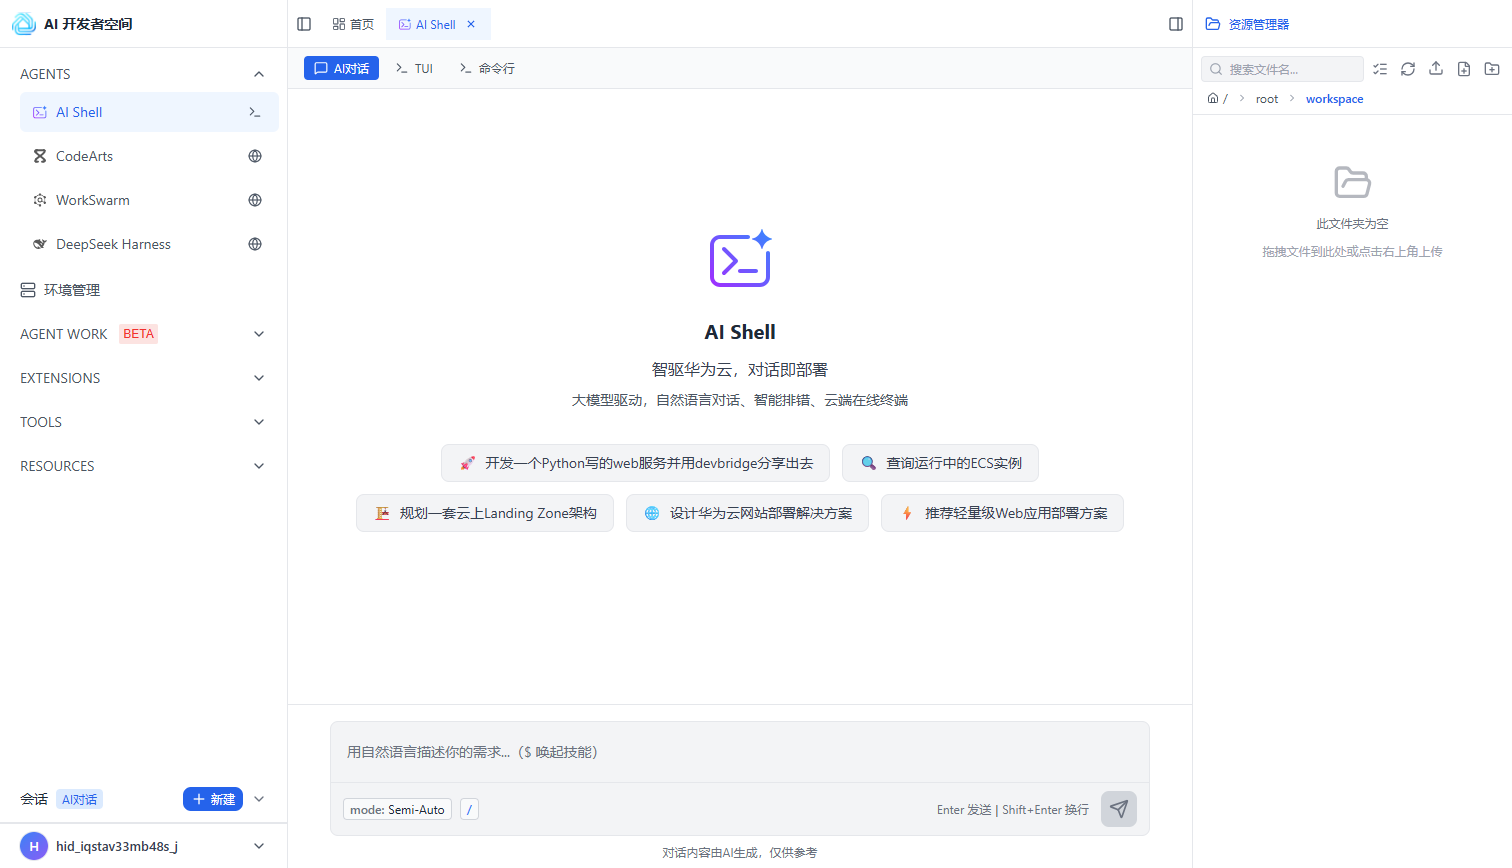
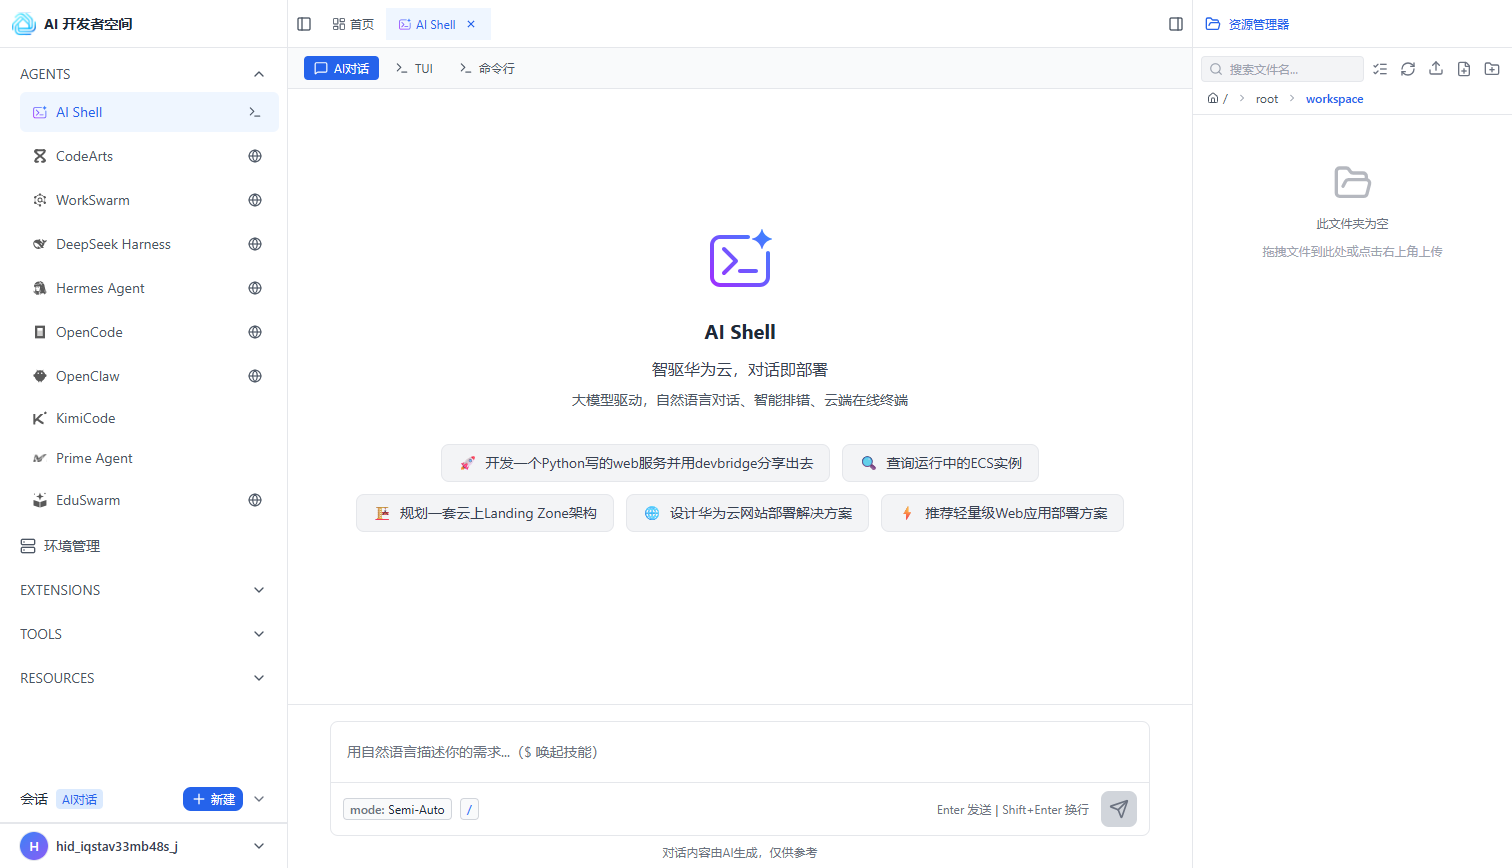
新增首页截图介绍与EduSwarm章节（AI教学智能体），AGENTS概览更新为9个智能体并移除HWCloud CLI章节，AI Shell功能与截图刷新，环境管理重截图并同步19环境明细（新增AI Shell/EduSwarm/IAC MCP Server/Agent Browser/HuaweiCloud DevKit/Next AI Draw.io，版本号与状态对齐线上）

diff --git a/AIDevspace.html b/AIDevspace.html
@@ -610,10 +610,10 @@
     <div class="toc-title">开始使用</div>
     <nav id="toc">
       <a href="#intro">简介</a>
+      <a href="#home">首页</a>
       <a href="#agents" class="toggle-parent" id="agents-toggle"><span class="label">AGENTS 概览</span><span class="arrow">▸</span></a>
       <div class="submenu collapsed" id="agents-submenu">
         <a href="#ai-shell" class="sub2">AI SHELL</a>
-        <a href="#agent-hwcloud-cli" class="sub2">HWCloud CLI</a>
         <a href="#agent-codearts" class="sub2">CodeArts</a>
         <a href="#agent-WorkSwarm" class="sub2">WorkSwarm</a>
         <a href="#agent-deepseek-harness" class="sub2">DeepSeek Harness</a>
@@ -622,6 +622,7 @@
         <a href="#agent-openclaw" class="sub2">OpenClaw</a>
         <a href="#agent-kimicode" class="sub2">KimiCode</a>
         <a href="#agent-prime" class="sub2">Prime Agent</a>
+        <a href="#agent-eduswarm" class="sub2">EduSwarm</a>
       </div>
       
       <a href="#workenv">环境管理</a>
@@ -667,7 +668,7 @@
         </thead>
         <tbody>
           <tr><td><strong>AI SHELL</strong></td><td>核心入口，支持 AI 对话、TUI、命令行三种交互模式</td></tr>
-          <tr><td><strong>AGENTS</strong></td><td>9 个智能体，覆盖基础设施即代码、代码编写与分析、多 Agent 协作、DeepSeek 推理、编程辅助、个人助手、任务调度编排等场景</td></tr>
+          <tr><td><strong>AGENTS</strong></td><td>9 个智能体，覆盖代码编写与分析、多 Agent 协作、DeepSeek 推理、编程辅助、个人助手、任务调度编排、AI 教学辅助等场景</td></tr>
           <tr><td><strong>环境管理</strong></td><td>14 个作业环境，支持智能体、开发工具、数据库、基础设施四类分类，一键部署与管理</td></tr>
           <tr><td><strong>AGENT WORK</strong></td><td>智能体工作平台（Beta），包含 Agent 管理、项目、任务、小队、自动化 5 个子模块，覆盖从 Agent 定义、任务承载、多智能体协作到周期自动化的完整工作流</td></tr>
           <tr><td><strong>EXTENSIONS</strong></td><td>扩展能力，包含华为云 Skills（79 个云服务技能）和 Channels（飞书/微信/企业微信对接）</td></tr>
@@ -692,9 +693,27 @@
       </ul>
     </section>
 
+    <section id="home">
+      <h2>首页</h2>
+      <p>登录 AI 开发者空间后默认进入首页。页面左侧为全局导航（AGENTS、环境管理、EXTENSIONS、TOOLS、RESOURCES、文件管理、设置与反馈），右侧为资源管理器面板；主区域从上到下分为四个板块：</p>
+      <img class="screenshot" src="images/home.png" alt="AI 开发者空间首页" />
+      <div class="figcaption">AI 开发者空间首页总览</div>
+      <table>
+        <thead>
+          <tr><th>板块</th><th>说明</th></tr>
+        </thead>
+        <tbody>
+          <tr><td><strong>快速开始</strong></td><td>产品与核心功能的视频教程列表（什么是 AI 开发者空间、码道 CodeArts、WorkSwarm、AgentWork 等），点击即可在线播放</td></tr>
+          <tr><td><strong>每日AI知识精选</strong></td><td>每日更新的大模型与 AI 领域精选资讯，涵盖前沿模型发布、技术进展与实践案例</td></tr>
+          <tr><td><strong>实践中心</strong></td><td>AI 云原生、鸿蒙、AI 办公、IaC 四大开发实践中心，按场景提供端到端的开发实践资源</td></tr>
+          <tr><td><strong>开发者动态</strong></td><td>华为云开发者活动、任务福利与平台最新动态</td></tr>
+        </tbody>
+      </table>
+    </section>
+
     <section id="ai-shell">
       <h2>AI SHELL</h2>
-      <p><strong>AI SHELL</strong> 是产品的核心入口，大模型驱动，支持自然语言对话、智能排错与云端在线终端，提供三种交互模式：</p>
+      <p><strong>AI SHELL</strong> 是产品的核心入口，秉持“智驱华为云，对话即部署”的产品理念，大模型驱动，支持自然语言对话、智能排错与云端在线终端，提供三种交互模式：</p>
       <table>
         <thead>
           <tr><th>模式</th><th>用途</th><th>说明</th></tr>
@@ -711,11 +730,11 @@
         <li>在左侧 <strong>AGENTS 概览</strong>下点击 <strong>AI SHELL</strong>，进入 AI 对话界面</li>
         <li>点击 <strong>「新建」</strong>创建会话，可指定工作目录（CWD），缺省为 <code>/root/workspace</code></li>
         <li>在输入框用自然语言描述需求（例如"查询所有运行中的 ECS 实例"），按 Enter 发送（Shift+Enter 换行）</li>
-        <li>点击顶部标签可随时切换「AI 对话」「TUI」「命令行」模式</li>
+        <li>输入 <code>/mode</code> 可随时切换「AI 对话」「TUI」「命令行」模式</li>
       </ol>
 
-      <img class="screenshot" src="images/ai-shell.png?v=20260916" alt="AI SHELL 主界面" />
-      <div class="figcaption">AI SHELL 主界面：三种模式切换、快捷建议与需求输入框</div>
+      <img class="screenshot" src="images/ai-shell.png?v=20260920" alt="AI SHELL 主界面" />
+      <div class="figcaption">AI SHELL 主界面：居中欢迎页、快捷建议与需求输入框</div>
 
       <p><strong>输入增强：</strong></p>
       <ul>
@@ -732,34 +751,20 @@
         <tbody>
           <tr><td><strong>Session Mode</strong></td><td>控制 AI 的自主性与安全边界</td><td>Auto / Semi-Auto（默认）/ Manual / Plan</td></tr>
           <tr><td><strong>Reasoning Level</strong></td><td>控制模型产生的推理量</td><td>Low / Medium（默认）/ High</td></tr>
-          <tr><td><strong>Model</strong></td><td>选择使用的 LLM 模型</td><td>hwdevspace/glm-5.1 / hwdevspace/glm-5.2 / hwdevspace/openpangu-2.0-flash</td></tr>
+          <tr><td><strong>Model</strong></td><td>选择使用的 LLM 模型</td><td>hwdevspace/deepseek-v4-flash-0731（默认）/ hwdevspace/deepseek-v4-pro-0813 / hwdevspace/glm-5.1 / hwdevspace/glm-5.2</td></tr>
         </tbody>
       </table>
 
-      <img class="screenshot" src="images/ai-shell-config.png?v=20260916" alt="AI SHELL 会话配置" />
+      <img class="screenshot" src="images/ai-shell-config.png?v=20260920" alt="AI SHELL 会话配置" />
       <div class="figcaption">会话配置面板：Session Mode / Reasoning Level / Model</div>
     </section>
 
     <section id="agents">
       <h2>AGENTS 概览</h2>
       <p>
-        <strong>AGENTS</strong> 模块默认展示 HWCloud CLI、CodeArts、WorkSwarm、DeepSeek Harness 智能体，根据部署的环境状态动态展示 Agent 入口，
-        目前可以提供 9 个智能体，覆盖代码生成、多 Agent 协作、基础设施即代码、个人助手、DeepSeek 模型推理等场景。
+        <strong>AGENTS</strong> 模块默认展示 CodeArts、WorkSwarm、DeepSeek Harness 智能体，根据部署的环境状态动态展示 Agent 入口，
+        目前可以提供 9 个智能体，覆盖代码生成、多 Agent 协作、个人助手、DeepSeek 模型推理、AI 教学辅助等场景。
       </p>
-    </section>
-
-    <section id="agent-hwcloud-cli">
-      <h2>HWCloud CLI</h2>
-      <p><strong>HWCloud CLI</strong> 是基础设施即代码（IaC）智能体，支持 Terraform、Ansible 等工具，可将自然语言需求转换为可执行的基础设施配置。</p>
-      <p><strong>操作步骤：</strong></p>
-      <ol class="steps">
-        <li>点击左侧菜单 <strong>HWCloud CLI</strong>，进入该智能体</li>
-        <li>用自然语言描述基础设施需求（例如"创建一个 VPC 和一个 ECS 实例"）</li>
-        <li>HWCloud CLI 调用 Terraform / Ansible 等工具生成 IaC 脚本</li>
-        <li>确认脚本后执行部署，并查看运行结果</li>
-      </ol>
-      <img class="screenshot" src="images/agent-hwcloud-cli.png" alt="HWCloud CLI 智能体" />
-      <div class="figcaption">HWCloud CLI：基础设施即代码智能体</div>
     </section>
 
     <section id="agent-codearts">
@@ -891,6 +896,20 @@
       </ol>
     </section>
 
+    <section id="agent-eduswarm">
+      <h2>EduSwarm</h2>
+      <p><strong>EduSwarm</strong> 是 AI 教师团队协作平台（AI 智慧课堂工作台），提供备课、上课、作业、批改、学情全流程 AI 辅助。内置今日课堂、课堂管理、班级管理、课件中心、作业中心、批改报告、教学总览、Agent 配置与统计、Edu SkillHub、Studio、学生端等功能模块，支持任务编排与定时任务。</p>
+      <p><strong>操作步骤：</strong></p>
+      <ol class="steps">
+        <li>点击左侧菜单 <strong>EduSwarm</strong>，进入 AI 智慧课堂工作台</li>
+        <li>首次进入可跟随操作指引分步熟悉核心流程，或点击「跳过引导」直接开始</li>
+        <li>通过左侧功能栏进入今日课堂、课件中心、作业中心等模块，也可在输入框用自然语言直接下达教学任务</li>
+        <li>通过输入框下方可配置单 Agent 模式、访问权限与技能，选择模型后发送，EduSwarm 协同 AI 教师团队完成任务并输出结果</li>
+      </ol>
+      <img class="screenshot" src="images/agent-eduswarm.png" alt="EduSwarm AI 智慧课堂工作台" />
+      <div class="figcaption">EduSwarm：AI 智慧课堂工作台</div>
+    </section>
+
     <section id="tools">
       <h2>TOOLS</h2>
       <p><strong>TOOLS</strong> 模块提供开发辅助工具，默认部署以下工具：</p>
@@ -952,33 +971,39 @@
           <tr><th>分类</th><th>说明</th></tr>
         </thead>
         <tbody>
-          <tr><td>智能体（10）</td><td>代码智能体、多 Agent 协作、个人助手、SRE 运维等 10 个智能体环境</td></tr>
-          <tr><td>开发工具（2）</td><td>DevBridge 隧道管理、鸿蒙元服务开发</td></tr>
-          <tr><td>数据库（1）</td><td>OpenViking 智能开发辅助工具</td></tr>
+          <tr><td>智能体（11）</td><td>代码智能体、多 Agent 协作、个人助手、AI 教学辅助等 11 个智能体环境</td></tr>
+          <tr><td>开发工具（6）</td><td>DevBridge 隧道管理、IAC MCP Server、Agent Browser、HuaweiCloud DevKit、Next AI Draw.io、鸿蒙开发环境</td></tr>
+          <tr><td>数据库（1）</td><td>OpenViking AI 智能体开源上下文数据库</td></tr>
           <tr><td>基础设施（1）</td><td>Llama 本地 Embedding 环境</td></tr>
         </tbody>
       </table>
 
-      <p>共 14 个环境，12 运行中，支持的作业环境：</p>
+      <p>共 19 个环境，12 运行中，支持的作业环境：</p>
       <table>
         <thead>
           <tr><th>环境</th><th>类型</th><th>版本</th><th>说明</th></tr>
         </thead>
         <tbody>
-          <tr><td><strong>HWCloud CLI</strong></td><td>智能体</td><td>—</td><td>基础设施即代码智能体，支持 Terraform、Ansible 等工具</td></tr>
-          <tr><td><strong>CodeArts</strong></td><td>智能体</td><td>v1.0.1</td><td>华为云码道代码智能体 CLI，支持代码编写、分析、优化</td></tr>
-          <tr><td><strong>WorkSwarm</strong></td><td>智能体</td><td>v1.0.1</td><td>多 Agent 协作框架，自动分解问题并分配给不同 Agent</td></tr>
-          <tr><td><strong>DeepSeek Harness</strong></td><td>智能体</td><td>v0.1.0-rc.6</td><td>DeepSeek 官方多代理智能体开发平台，支持会话编排、技能管理、多模型接入</td></tr>
-          <tr><td><strong>Hermes Agent</strong></td><td>智能体</td><td>v0.19.0</td><td>Nous Research 自我改进型 AI Agent，内置学习循环与长期记忆</td></tr>
-          <tr><td><strong>OpenCode</strong></td><td>智能体</td><td>v1.0.1</td><td>开源 AI 编程代理，可连接 Claude、GPT、Gemini 等任意模型</td></tr>
-          <tr><td><strong>OpenClaw</strong></td><td>智能体</td><td>v2026.7.1-2</td><td>开源可编程 AI 个人助手平台，支持自动化任务、工具调用</td></tr>
-          <tr><td><strong>KimiCode</strong></td><td>智能体</td><td>v0.31.1</td><td>智能编程服务，支持代码阅读、编辑、命令执行、网页搜索</td></tr>
-          <tr><td><strong>Prime Agent</strong></td><td>智能体</td><td>—</td><td>智能任务调度与编排 Agent，自动拆解复杂任务并协调多执行单元协同</td></tr>
-          <tr><td><strong>OpenViking</strong></td><td>数据库</td><td>v1.0.0</td><td>智能开发辅助工具，提供代码理解、重构建议与自动化开发支持</td></tr>
-          <tr><td><strong>DevBridge</strong></td><td>开发工具</td><td>v0.1.13</td><td>隧道管理工具，支持隧道创建、端口管理、本地服务托管与远程连接</td></tr>
-          <tr><td><strong>Llama</strong></td><td>基础设施</td><td>v1.0.0</td><td>基于 llama.cpp 的本地 Embedding 环境，内置 bge-small-zh-v1.5 向量模型</td></tr>
-          <tr><td><strong>鸿蒙元服务开发</strong></td><td>开发工具</td><td>—</td><td>鸿蒙 OS 应用开发环境，支持 ArkTS 语言与元服务开发框架（待开放）</td></tr>
-          <tr><td><strong>SRE</strong></td><td>智能体</td><td>—</td><td>云服务运维智能体，支持故障排查、扩缩容规划、费用查询（待开放）</td></tr>
+          <tr><td><strong>AI Shell</strong></td><td>智能体</td><td>内置</td><td>AI Shell · 智驱华为云，对话即部署（TUI）</td></tr>
+          <tr><td><strong>HWCloud CLI</strong></td><td>智能体</td><td>v1.0.5</td><td>基础设施即代码智能体，支持 Terraform、Ansible 等自动化工具</td></tr>
+          <tr><td><strong>CodeArts</strong></td><td>智能体</td><td>v1.0.10</td><td>华为云码道代码智能体，支持代码编写、分析、优化（TUI / WebUI）</td></tr>
+          <tr><td><strong>WorkSwarm</strong></td><td>智能体</td><td>v1.0.9</td><td>多 Agent 协作框架，自动分解问题并分配给不同 Agent</td></tr>
+          <tr><td><strong>DeepSeek Harness</strong></td><td>智能体</td><td>v1.0.9</td><td>DeepSeek 官方多代理智能体开发平台，支持会话编排、技能管理、多模型接入</td></tr>
+          <tr><td><strong>Hermes Agent</strong></td><td>智能体</td><td>v1.0.5</td><td>Nous Research 自我改进型 AI Agent，内置学习循环与长期记忆</td></tr>
+          <tr><td><strong>OpenCode</strong></td><td>智能体</td><td>v1.0.5</td><td>开源 AI 编程代理，可连接 Claude、GPT、Gemini 等任意模型</td></tr>
+          <tr><td><strong>OpenClaw</strong></td><td>智能体</td><td>v1.0.4</td><td>开源可编程 AI 个人助手平台，支持自动化任务、工具调用</td></tr>
+          <tr><td><strong>KimiCode</strong></td><td>智能体</td><td>v1.0.4</td><td>智能编程服务，支持代码阅读、编辑、命令执行、网页搜索（仅 TUI）</td></tr>
+          <tr><td><strong>Prime Agent</strong></td><td>智能体</td><td>v1.0.4</td><td>智能任务调度与编排 Agent，自动拆解复杂任务并协调多执行单元协同（仅 TUI）</td></tr>
+          <tr><td><strong>EduSwarm</strong></td><td>智能体</td><td>v1.0.3</td><td>AI 教师团队协作平台，覆盖备课、上课、作业、批改、学情全流程（仅 WebUI）</td></tr>
+          <tr><td><strong>DevBridge</strong></td><td>开发工具</td><td>v1.0.1</td><td>隧道管理工具，支持网络隧道创建、端口管理与远程连接</td></tr>
+          <tr><td><strong>IAC MCP Server</strong></td><td>开发工具</td><td>—</td><td>云部署 IaC 助手，覆盖需求分析、资源规划、成本估算、Terraform 部署、排错与资源销毁全流程（未部署）</td></tr>
+          <tr><td><strong>Agent Browser</strong></td><td>开发工具</td><td>—</td><td>无头浏览器自动化环境（未部署）</td></tr>
+          <tr><td><strong>HuaweiCloud DevKit</strong></td><td>开发工具</td><td>—</td><td>华为云开发套件，构建、部署、运维全程受控（未部署）</td></tr>
+          <tr><td><strong>Next AI Draw.io</strong></td><td>开发工具</td><td>—</td><td>AI 自然语言生成 Draw.io 图表（未部署）</td></tr>
+          <tr><td><strong>鸿蒙开发环境</strong></td><td>开发工具</td><td>—</td><td>基于 GLM 模型鸿蒙增训、深度适配 ArkTS 语言，支持云端编译打包，支持云端 + 本地模拟器调测（待开放）</td></tr>
+          <tr><td><strong>OpenViking</strong></td><td>数据库</td><td>v1.0.2</td><td>AI 智能体的开源上下文数据库</td></tr>
+          <tr><td><strong>Llama</strong></td><td>基础设施</td><td>—</td><td>基于 llama.cpp 的本地 Embedding 环境，内置 bge-small-zh-v1.5 向量模型（未部署）</td></tr>
+          <tr><td><strong>SRE</strong></td><td>智能体</td><td>—</td><td>环境运维、故障排查、扩缩容规划、费用查询（待开放）</td></tr>
         </tbody>
       </table>
 
@@ -990,7 +1015,7 @@
         <li>支持<strong>停止</strong>、<strong>删除</strong>操作，部分环境支持<strong>升级</strong></li>
       </ol>
 
-      <img class="screenshot" src="images/workenv.png" alt="环境管理" />
+      <img class="screenshot" src="images/workenv.png?v=20260920" alt="环境管理" />
       <div class="figcaption">环境管理：作业环境列表、分类筛选与 TUI / WebUI 入口</div>
     </section>
 
@@ -1176,7 +1201,7 @@
       <p><strong>文档站</strong> 是 AI 开发者空间的官方操作指南文档，点击左侧菜单 <strong>RESOURCES → 文档站</strong> 即可进入。文档站涵盖以下内容：</p>
       <ul>
         <li>AI SHELL 的使用方法（AI 对话模式、命令行模式、会话配置）</li>
-        <li>AGENTS 模块各智能体的操作说明（HWCloud CLI、CodeArts、WorkSwarm 等）</li>
+        <li>AGENTS 模块各智能体的操作说明（CodeArts、WorkSwarm 等）</li>
         <li>环境管理的部署与配置指引</li>
         <li>华为云 Skills 和 Channels 的接入说明</li>
         <li>TOOLS 模块（OpenViking、DevBridge）的使用指南</li>
@@ -1260,9 +1285,9 @@
 <script>
   const chapters = [
     { id: 'intro', title: '简介' },
+    { id: 'home', title: '首页' },
     { id: 'ai-shell', title: 'AI SHELL' },
     { id: 'agents', title: 'AGENTS 概览' },
-    { id: 'agent-hwcloud-cli', title: 'HWCloud CLI' },
     { id: 'agent-codearts', title: 'CodeArts' },
     { id: 'agent-WorkSwarm', title: 'WorkSwarm' },
     { id: 'agent-deepseek-harness', title: 'DeepSeek Harness' },
@@ -1271,6 +1296,7 @@
     { id: 'agent-openclaw', title: 'OpenClaw' },
     { id: 'agent-kimicode', title: 'KimiCode' },
     { id: 'agent-prime', title: 'Prime Agent' },
+    { id: 'agent-eduswarm', title: 'EduSwarm' },
     { id: 'workenv', title: '环境管理' },
     { id: 'agent-work', title: 'AGENT WORK' },
     { id: 'agent-work-agents', title: 'Agent 管理' },
